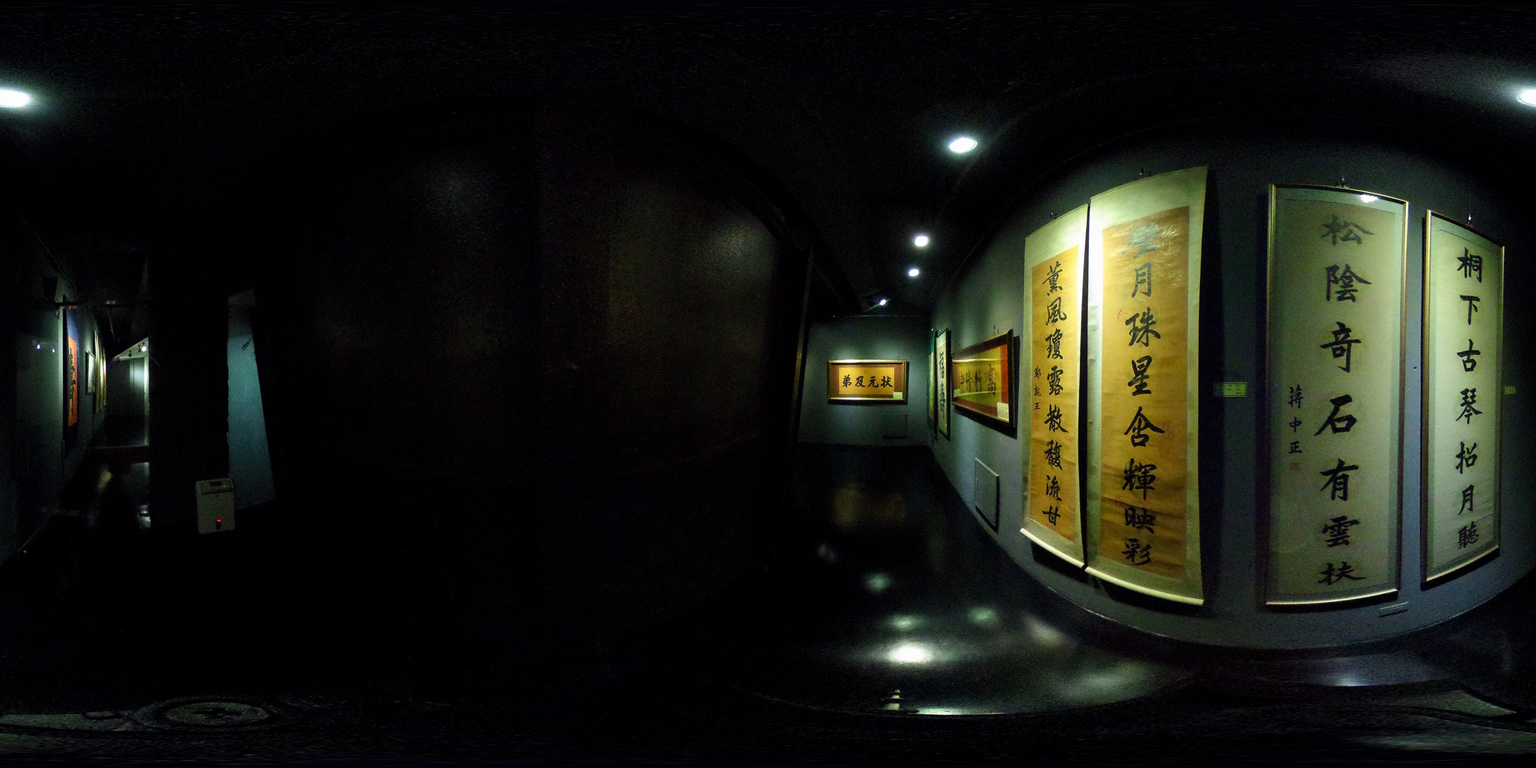
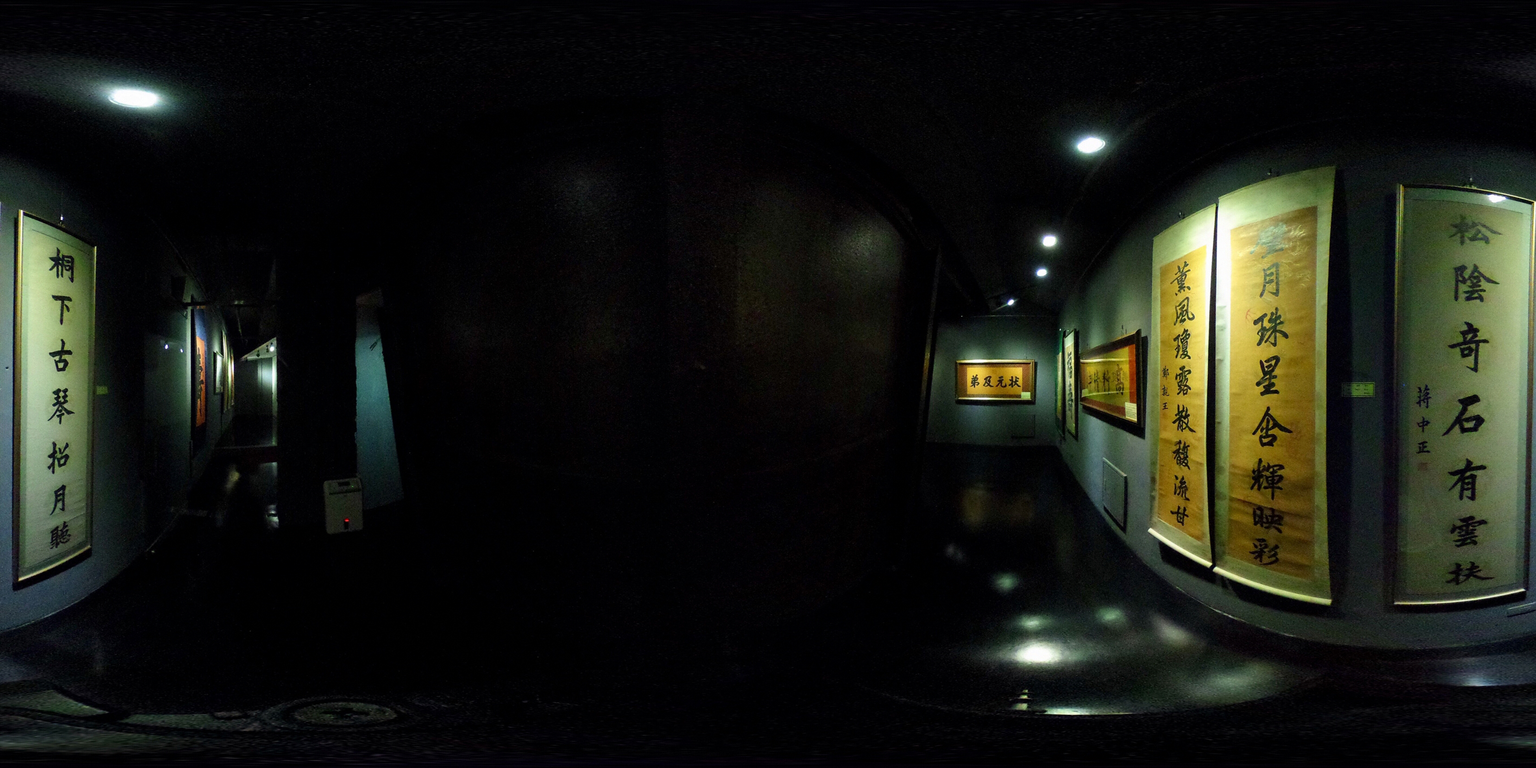
20170425v001

diff --git a/js/controls/DeviceOrientationControls.js b/js/controls/DeviceOrientationControls.js
@@ -4,108 +4,60 @@
  *
  * W3C Device Orientation control (http://w3c.github.io/deviceorientation/spec-source-orientation.html)
  */
-
-THREE.DeviceOrientationControls = function( object ) {
-
+THREE.DeviceOrientationControls = function (object) {
 	var scope = this;
-
 	this.object = object;
-	this.object.rotation.reorder( "YXZ" );
-
+	this.object.rotation.reorder("YXZ");
 	this.enabled = true;
-
 	this.deviceOrientation = {};
 	this.screenOrientation = 0;
-
 	this.alpha = 0;
 	this.alphaOffsetAngle = 0;
-
-
-	var onDeviceOrientationChangeEvent = function( event ) {
-
+	var onDeviceOrientationChangeEvent = function (event) {
 		scope.deviceOrientation = event;
-
 	};
-
-	var onScreenOrientationChangeEvent = function() {
-
+	var onScreenOrientationChangeEvent = function () {
 		scope.screenOrientation = window.orientation || 0;
-
 	};
-
 	// The angles alpha, beta and gamma form a set of intrinsic Tait-Bryan angles of type Z-X'-Y''
-
-	var setObjectQuaternion = function() {
-
-		var zee = new THREE.Vector3( 0, 0, 1 );
-
+	var setObjectQuaternion = function () {
+		var zee = new THREE.Vector3(0, 0, 1);
 		var euler = new THREE.Euler();
-
 		var q0 = new THREE.Quaternion();
-
-		var q1 = new THREE.Quaternion( - Math.sqrt( 0.5 ), 0, 0, Math.sqrt( 0.5 ) ); // - PI/2 around the x-axis
-
-		return function( quaternion, alpha, beta, gamma, orient ) {
-
-			euler.set( beta, alpha, - gamma, 'YXZ' ); // 'ZXY' for the device, but 'YXZ' for us
-
-			quaternion.setFromEuler( euler ); // orient the device
-
-			quaternion.multiply( q1 ); // camera looks out the back of the device, not the top
-
-			quaternion.multiply( q0.setFromAxisAngle( zee, - orient ) ); // adjust for screen orientation
-
+		var q1 = new THREE.Quaternion(- Math.sqrt(0.5), 0, 0, Math.sqrt(0.5)); // - PI/2 around the x-axis
+		return function (quaternion, alpha, beta, gamma, orient) {
+			euler.set(beta, alpha, - gamma, 'YXZ'); // 'ZXY' for the device, but 'YXZ' for us
+			quaternion.setFromEuler(euler); // orient the device
+			quaternion.multiply(q1); // camera looks out the back of the device, not the top
+			quaternion.multiply(q0.setFromAxisAngle(zee, - orient)); // adjust for screen orientation
 		}
-
-	}();
-
-	this.connect = function() {
-
+	} ();
+	this.connect = function () {
 		onScreenOrientationChangeEvent(); // run once on load
-
-		window.addEventListener( 'orientationchange', onScreenOrientationChangeEvent, false );
-		window.addEventListener( 'deviceorientation', onDeviceOrientationChangeEvent, false );
-
+		window.addEventListener('orientationchange', onScreenOrientationChangeEvent, false);
+		window.addEventListener('deviceorientation', onDeviceOrientationChangeEvent, false);
 		scope.enabled = true;
-
 	};
-
-	this.disconnect = function() {
-
-		window.removeEventListener( 'orientationchange', onScreenOrientationChangeEvent, false );
-		window.removeEventListener( 'deviceorientation', onDeviceOrientationChangeEvent, false );
-
+	this.disconnect = function () {
+		window.removeEventListener('orientationchange', onScreenOrientationChangeEvent, false);
+		window.removeEventListener('deviceorientation', onDeviceOrientationChangeEvent, false);
 		scope.enabled = false;
-
 	};
-
-	this.update = function() {
-
-		if ( scope.enabled === false ) return;
-
-		var alpha = scope.deviceOrientation.alpha ? THREE.Math.degToRad( scope.deviceOrientation.alpha ) + this.alphaOffsetAngle : 0; // Z
-		var beta = scope.deviceOrientation.beta ? THREE.Math.degToRad( scope.deviceOrientation.beta ) : 0; // X'
-		var gamma = scope.deviceOrientation.gamma ? THREE.Math.degToRad( scope.deviceOrientation.gamma ) : 0; // Y''
-		var orient = scope.screenOrientation ? THREE.Math.degToRad( scope.screenOrientation ) : 0; // O
-
-		setObjectQuaternion( scope.object.quaternion, alpha, beta, gamma, orient );
+	this.update = function () {
+		if (scope.enabled === false) return;
+		var alpha = scope.deviceOrientation.alpha ? THREE.Math.degToRad(scope.deviceOrientation.alpha) + this.alphaOffsetAngle : 0; // Z
+		var beta = scope.deviceOrientation.beta ? THREE.Math.degToRad(scope.deviceOrientation.beta) : 0; // X'
+		var gamma = scope.deviceOrientation.gamma ? THREE.Math.degToRad(scope.deviceOrientation.gamma) : 0; // Y''
+		var orient = scope.screenOrientation ? THREE.Math.degToRad(scope.screenOrientation) : 0; // O
+		setObjectQuaternion(scope.object.quaternion, alpha, beta, gamma, orient);
 		this.alpha = alpha;
-
 	};
-
-	this.updateAlphaOffsetAngle = function( angle ) {
-
+	this.updateAlphaOffsetAngle = function (angle) {
 		this.alphaOffsetAngle = angle;
 		this.update();
-
 	};
-
-	this.dispose = function() {
-
+	this.dispose = function () {
 		this.disconnect();
-
 	};
-
 	this.connect();
-
 };

diff --git a/js/PSV.js b/js/PSV.js
@@ -2,23 +2,23 @@ var i = false;        //show_or_hide 控制变量
 var isPhone = false;
 //检测平台,若是android & ios访问就开启陀螺仪
 function checkClinetModel() {
-    //获取请求头中的userAgent
-    var u = navigator.userAgent;
-    //是否是android浏览器
-    var isAndroid = u.indexOf('Android') > -1;
-    //是否是ios浏览器
-    var isIos = !!u.match(/\(i[^;]+;( U;)? CPU.+Mac OS X/);
-    var msg = '';
-    if (isAndroid) {
-        isPhone = true;   //android
-        console.log('android');
-    } else if (isIos) {
-        isPhone = true;   //ios
-        console.log('ios');
-    } else {
-        isPhone = false;  //PC
-        console.log('PC');
-    };
+        //获取请求头中的userAgent
+        var u = navigator.userAgent;
+        //是否是android浏览器
+        var isAndroid = u.indexOf('Android') > -1;
+        //是否是ios浏览器
+        var isIos = !!u.match(/\(i[^;]+;( U;)? CPU.+Mac OS X/);
+        var msg = '';
+        if (isAndroid) {
+            isPhone = true;   //android         
+            console.log('android');
+        } else if (isIos) {
+            isPhone = true;   //ios   
+            console.log('ios');
+        } else {
+            isPhone = false;  //PC
+            console.log('PC');
+        };
 };
 checkClinetModel();
 var PSV = new PhotoSphereViewer({
@@ -429,7 +429,7 @@ function changeToSH() {
 function changeToSH2() {
     PSV.clearMarkers();
     PSV.setPanorama('./panorama/sh2.jpg', {
-        longitude: 0,
+        longitude: 6 * Math.PI / 16,
         latitude: 0
     }, true)
         .then(function () {
@@ -440,7 +440,7 @@ function changeToSH2() {
                 width: 64,
                 height: 64,
                 latitude: -Math.PI / 16,
-                longitude: 2 * Math.PI / 16
+                longitude: 5 * Math.PI / 16
             });
             PSV.addMarker({
                 id: 'sh3',
@@ -448,7 +448,7 @@ function changeToSH2() {
                 width: 64,
                 height: 64,
                 latitude: -Math.PI / 16,
-                longitude: 18 * Math.PI / 16
+                longitude: 21 * Math.PI / 16
             });
             if (isPhone) PSV.startGyroscopeControl();
         });
